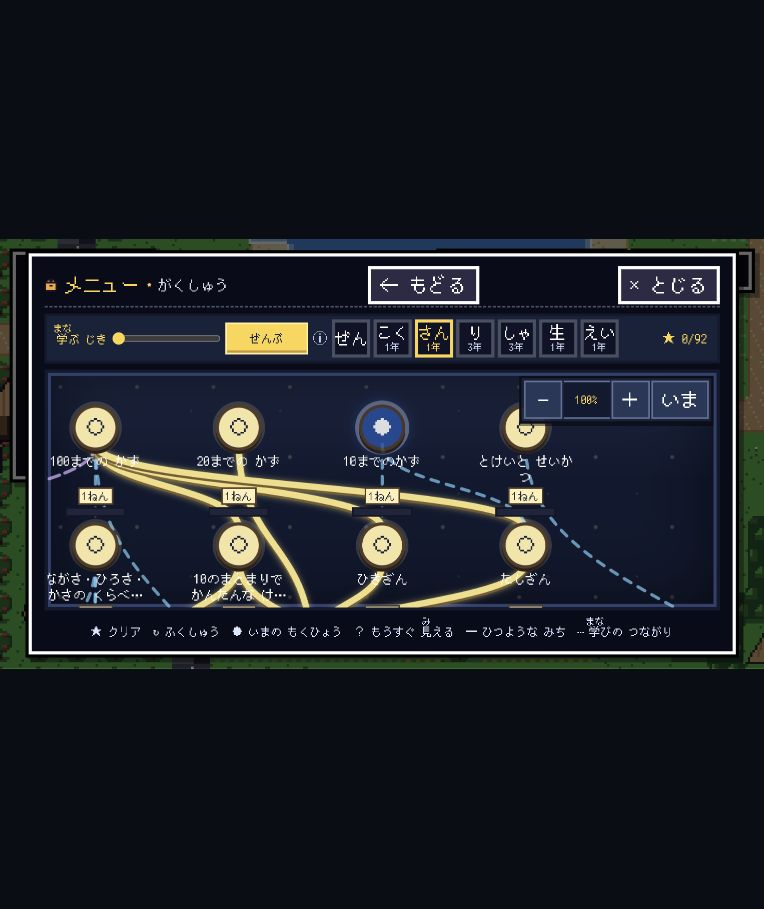
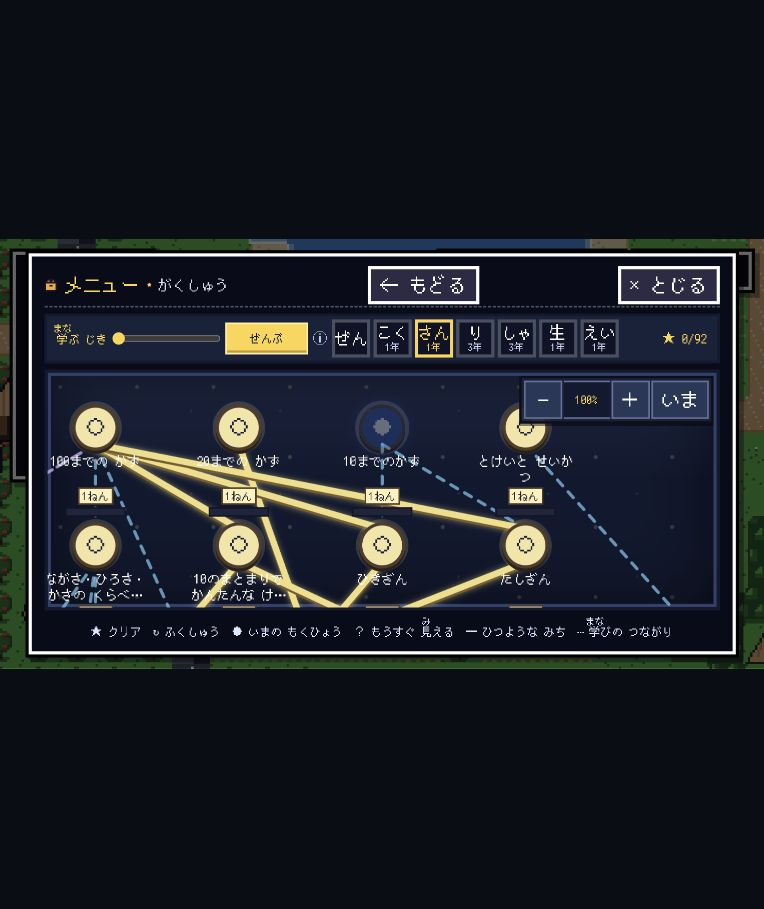
fix: render roadmap connections as straight lines

diff --git a/src/ui/field/RoadmapGraph.tsx b/src/ui/field/RoadmapGraph.tsx
@@ -300,14 +300,16 @@ export function RoadmapGraph({
               const y1 = from.y + 50;
               const x2 = to.x + NODE_W / 2;
               const y2 = to.y + 8;
-              const bend = Math.max(32, (y2 - y1) / 2);
               const hidden = source.visibility === 'hidden' || target.visibility === 'hidden';
               const frontier = source.visibility === 'frontier' || target.visibility === 'frontier';
               return (
-                <path
+                <line
                   key={`${kind}:${source.id}->${target.id}`}
                   class={`nq-roadmap-edge nq-roadmap-edge-${kind}${kind !== 'prerequisite' ? ' nq-roadmap-edge-supporting' : ''}${hidden ? ' nq-roadmap-edge-hidden' : frontier ? ' nq-roadmap-edge-frontier' : ''}`}
-                  d={`M ${x1} ${y1} C ${x1} ${y1 + bend}, ${x2} ${y2 - bend}, ${x2} ${y2}`}
+                  x1={x1}
+                  y1={y1}
+                  x2={x2}
+                  y2={y2}
                 />
               );
             })}

diff --git a/tests/unit/roadmapMenu.test.ts b/tests/unit/roadmapMenu.test.ts
@@ -394,6 +394,8 @@ describe('学習ロードマップの単元選択', () => {
     });
 
     expect(container.querySelectorAll('.nq-roadmap-edge')).toHaveLength(1);
+    expect(container.querySelector('line.nq-roadmap-edge')).not.toBeNull();
+    expect(container.querySelector('path.nq-roadmap-edge')).toBeNull();
     expect(container.querySelector('.nq-roadmap-frontier')?.getAttribute('aria-label')).toContain(
       'まだ 見えない',
     );

diff --git a/docs/release/learning-skill-tree-walkthrough.md b/docs/release/learning-skill-tree-walkthrough.md
@@ -15,7 +15,7 @@
 7. 上部の「学ぶ時期」バーで、全体または小学1年1学期〜6年3学期を連続して選べる。時期未設定の単元は該当学年の各学期で表示される。
 8. `−`、`＋`、倍率表示、`いま`を使って60〜160%へ拡大縮小し、現在のおすすめ単元へ戻せる。
 9. パソコンではドラッグと2本指スクロール、Ctrl／Command＋トラックパッド、スマートフォンでは1本指ドラッグと2本指ピンチで地図を動かせる。
-10. 実線は解除に必要な前提、色付きの点線は構成・転移・関連・時系列の補助線として表示される。
+10. ノード間はすべて直線で結ばれ、実線は解除に必要な前提、色付きの点線は構成・転移・関連・時系列の補助線として表示される。
 11. ロック中の単元は「さきに：○○」で、先に身につける単元を示す。
 12. 既存セーブで導入前にクリア済みだった単元は、初回ロード時に既得進捗として保持し、新しい概念判定で再ロックしない。
 13. 開発者モードでは全単元の名前と状態を表示し、学年や前提条件に関係なく各単元を選んで確認できる。
